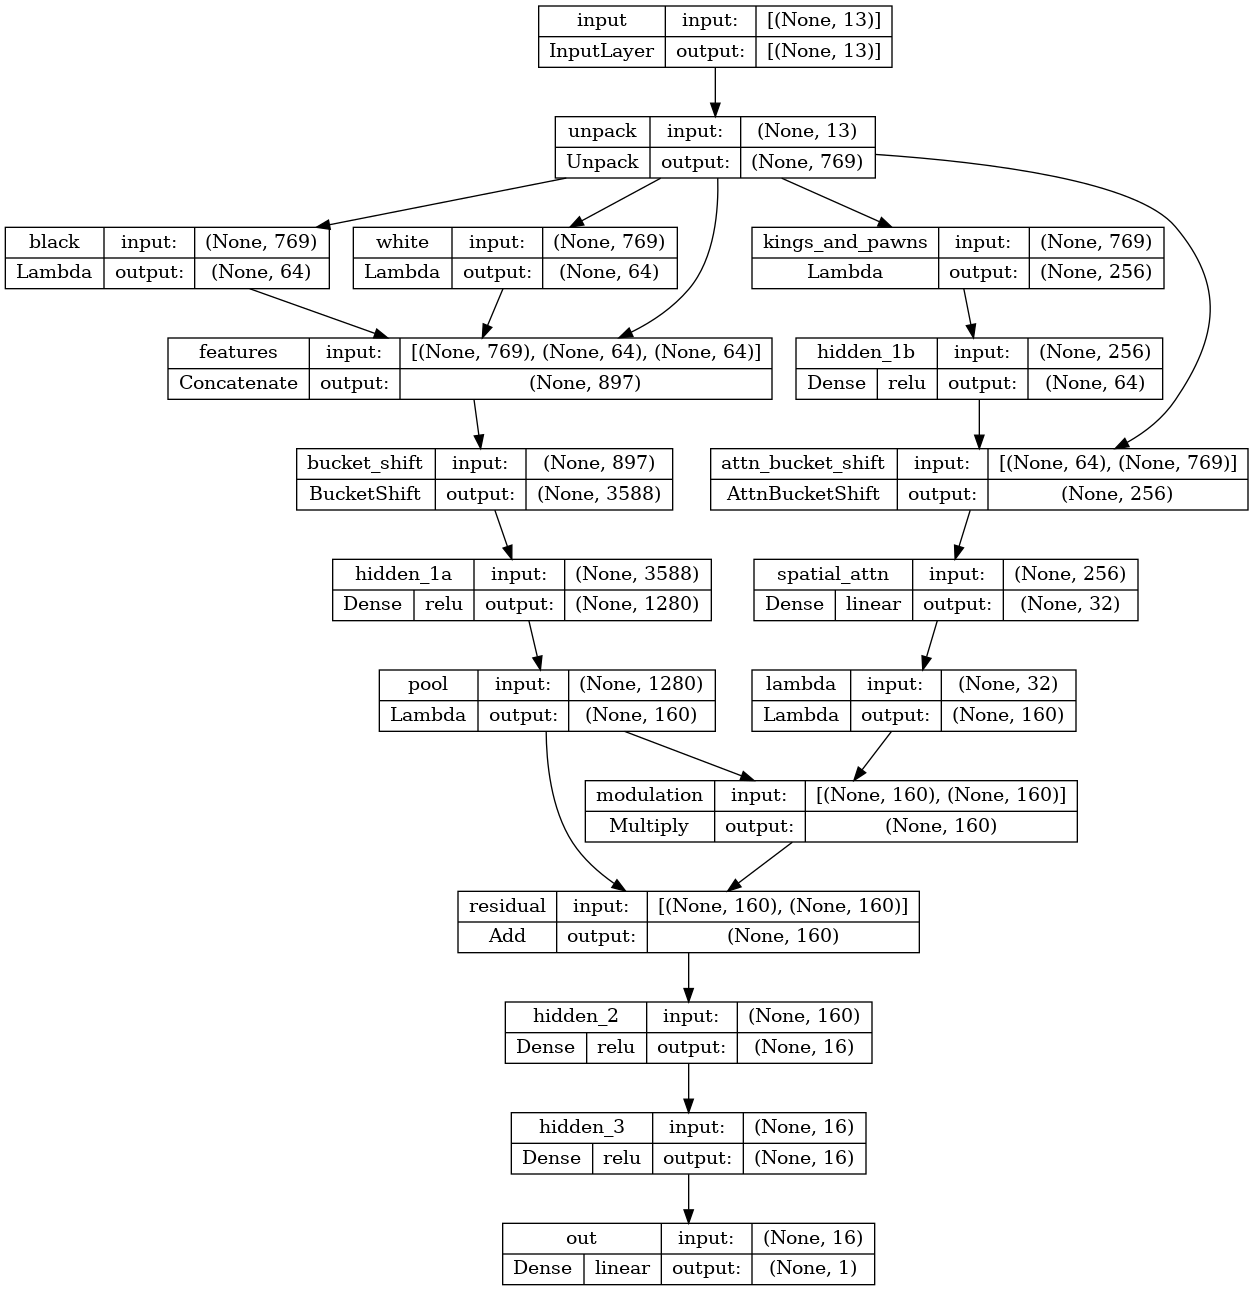
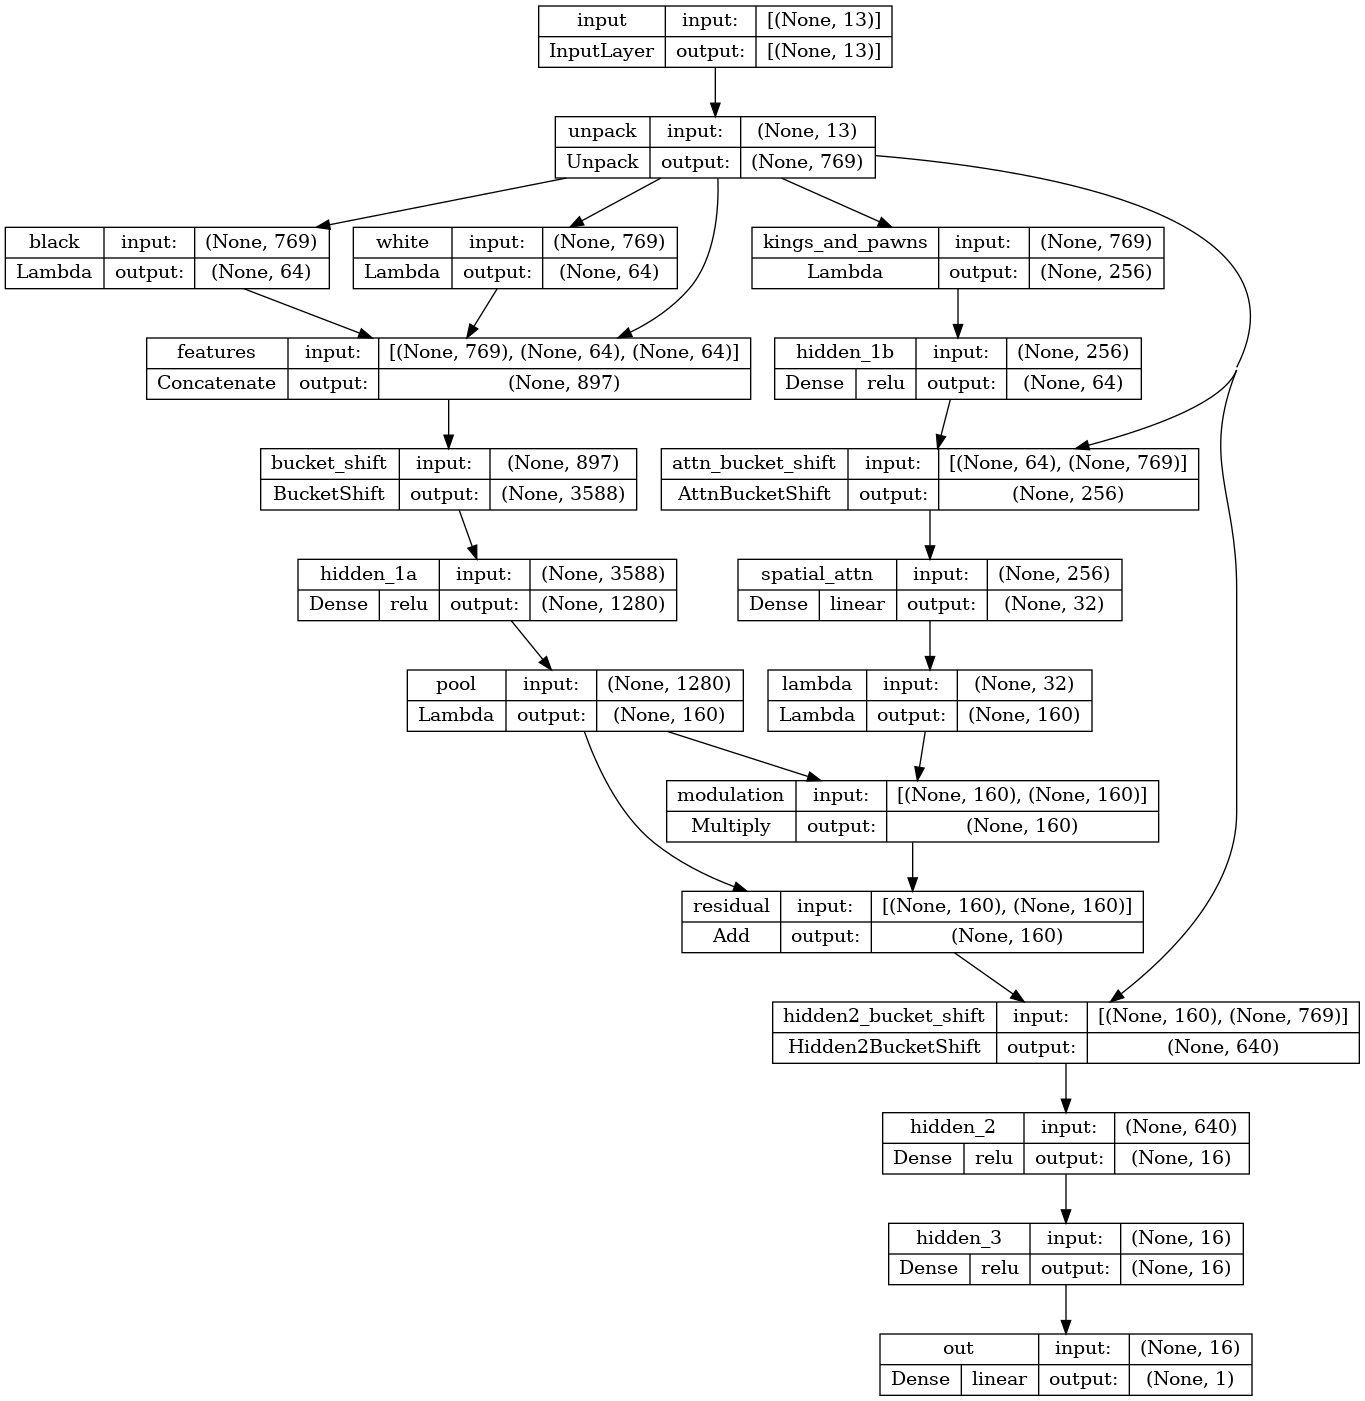
update verify tool and diagram

Changed region(s): [[0.0, 0.0, 1.0, 1.0]]

diff --git a/tools/nnue/verify.py b/tools/nnue/verify.py
@@ -17,6 +17,7 @@ Q_MAX_B = 32767 / Q_SCALE / 19
 ACCUMULATOR_SIZE = 1280
 POOL_SIZE = 8
 ATTN_BUCKETS = 4
+HIDDEN2_BUCKETS = 4
 
 # Layer definitions: (name, kernel_shape, bias_shape, constraint_type)
 # constraint_type: 'A', 'B', or None
@@ -26,7 +27,7 @@ LAYERS = [
     ('hidden_1b', (256, 64), (64,), 'B'),
     ('hidden_1a', (3588, ACCUMULATOR_SIZE), (ACCUMULATOR_SIZE,), 'A'),
     ('spatial_attn', (64 * ATTN_BUCKETS, 32), (32,), None),  # bucketed: 64 inputs × 4 buckets
-    ('hidden_2', (ACCUMULATOR_SIZE // POOL_SIZE, 16), (16,), None),
+    ('hidden_2', (ACCUMULATOR_SIZE // POOL_SIZE * HIDDEN2_BUCKETS, 16), (16,), None),  # bucketed: 160 inputs × 4 buckets
     ('hidden_3', (16, 16), (16,), None),
     ('out', (16, 1), (1,), None),
 ]
